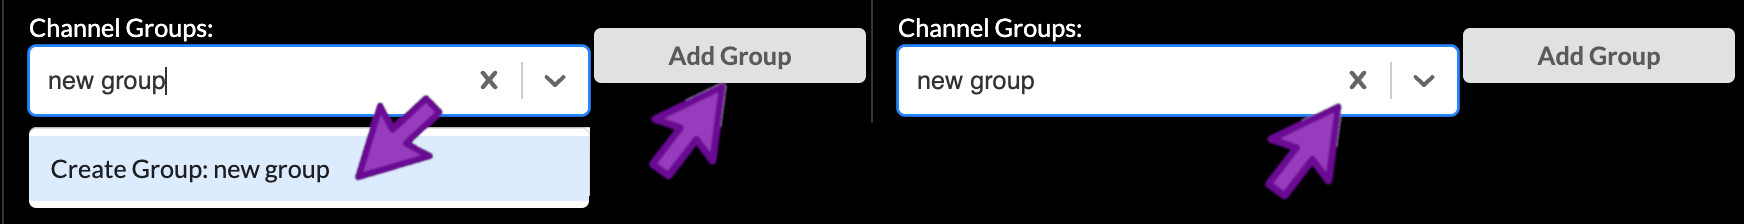
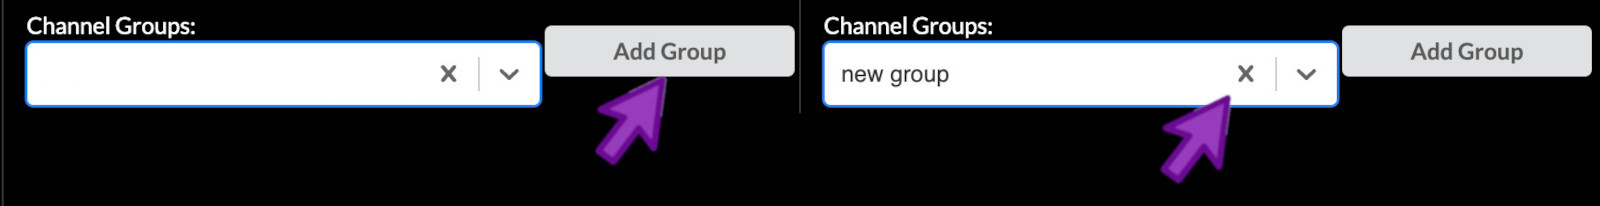
Refine middle of episode 03

diff --git a/_episodes/03-curated.md b/_episodes/03-curated.md
@@ -19,7 +19,9 @@ keypoints:
 ## The authoring interface has three main modes
 
 Minerva Author has three main modes for editing a story. You can switch between these modes by
-clicking the gray buttons just below the Save/Publish/Preview buttons.
+clicking the gray buttons just below the Save/Publish/Preview buttons. We will follow a particular
+sequence through the different modes during this tutorial, but on your own you are free to switch
+back and forth at any time.
 
 1. **Sample Info** lets you adjust settings and enter information that relate to your image as a
    whole and manage the initial image view shown when viewers first open your story.
@@ -110,42 +112,117 @@ pixel size for your image (also called nominal image resolution) and enter it he
 always be specified in microns. The value in this field will be used to give your story a scale bar,
 which is a crucial component of image interpretability.
 
-## Edit Groups
+## Editing channel groups and channel settings
 
-Curated stories include fine-tuned rendering settings, which can be created through the "Edit Groups" tab. This tab is open once an image is loaded into Minerva Author.
+Next we will spend some time learning how to edit channel groups and channel settings. Click the
+"Edit Groups" button to switch to that mode.
 
-### Select and rename a channel group
+As we have seen, the way the image channels are grouped by the Automated story creation process does
+not necessarily highlight useful aspects of tissue biology that you might wish to show to your story
+viewers. The first thing we will do to address that is decide on more useful groups and rearrange
+our channels accordingly.
 
-You can select to edit a given channel group from the dropdown menu under "Channel Groups:". Each channel group must have a unique name. To change the name of a channel group, you can click the "Rename" button. Then, you can enter the new channel group's name into the provided text field.
+## Select and rename a channel group
+
+You can select a channel group to work with from the dropdown menu under "Channel Groups". To change
+the name of a channel group, click the "Rename" button, type the new name into the popup, then click
+OK. Each channel group must have a unique name within a story.
 
 ![Renaming Channel Group](../fig/screenshot-rename-group.jpg){:style="max-width: 800px;"}
 
-### Add or remove a channel group
+## Addding and removing a channel group
 
-A channel group can be added either by clicking "Add Group", or by typing a new name directly into the "Channel Groups" dropdown menu. The currently active channel group can be removed by clicking the "X" within the right side of the "Channel Groups" dropdown menu.
+A new channel group can be added by clicking "Add Group", typing the desired name in to the popup,
+and clicking "OK". The currently active channel group can be removed by clicking the "X" just to the
+right of its name.
 
 ![Add or remove a Channel Group](../fig/screenshot-add-remove-group.jpg){:style="max-width: 800px;"}
 
-### Add or remove a channel
+Let's make our first group show the overall tissue architecture of the tonsil tissue, along with a
+general-purpose immune cell marker. It looks like Group 1 is already pretty close, containing DNA,
+Ki-67, and Keratin, so we will rename Group 1 for this purpose. Then we will create a new group to
+highlight different immune cell types, and lastly delete Group 2.
 
-You can add a channel to the active channel group by opening the channel dropdown menu and selecting a channel from among the list. Or, you can search for a channel to add by typing into the list of options. Individual channels can be cleared by clicking the "X" to the right of a channel name in the list of options. entire channel group can be cleared by clicking the rightmost "X".
+> ## Rename, add and remove channel groups
+> 1. Rename the channel group "Group 1" to "Structural components".
+> 2. Add a new channel group named "Immune cells".
+> 3. Delete channel group "Group 2".
+{: .challenge}
+
+
+## Adding and removing channels from groups
+
+You can add a channel to the active channel group by clicking the down arrow in the channel dropdown
+menu (or the empty white space to the left of the arrow) to open the list of channels, followed by
+clicking a channel. You can also type to search for a channel by name while the channel list is
+open. Remove a channel from the group by clicking the small "X" next to its name. If you ever want
+to remove all channels from a group, click the large "X" near the right side of the channel dropdown
+menu. Note that a channel may belong to more than one group at the same time -- for example, many
+stories of CyCIF images include the first DNA channel in every group as a reference to show where
+all cells are located regardless of marker expression.
 
 ![Add or remove a Channel](../fig/screenshot-add-remove-channel.jpg){:style="max-width: 800px;"}
 
-### Describe a channel
+Now we will refine our two channel groups to contain the correct channels.
 
-You can provide a brief (no more than 30-character) description for a given channel by clicking the encircled "i" to the right of any given channel. Then, you can enter the channel's description into the provided text field. This description will be shown in the Story adjacent to the name of the described channel.
+> ## Add and remove channels from groups
+> 1. Add the following channels to the "Structural components" group:
+>   * α-SMA
+>   * CD45
+> 2. Remove the following channels from the "Structural components" group:
+>   * CD3D
+>   * CD4
+> 2. Add the following channels to the "Immune cells" group:
+>   * CD20
+>   * CD8A
+>   * CD4
+>   * CD3D
+{: .challenge}
 
-![Showing a hidden channel](../fig/screenshot-describe-channel.jpg){:style="max-width: 800px;"}
+
+## Adjusting per-channel settings
+
+Now we will move our focus down from the channel dropdown menu to the channel settings list where we
+can adjust name, color, brightness and contrast, and more.
+
+## Creating channel descriptions
+
+Short channel names are an efficient shorthand for those who already know the significance of the
+referenced proteins or other biomarkers, but they are much less helpful to outsiders from a more
+general audience. It is strongly suggested that you write a brief description (up to 30 characters)
+of each channel that explains its intended interpretation in the context of the tissue sample and
+the overall experiment. You can add these descriptions to the channels in your story by clicking the
+encircled "i" button to the right of a channel's entry in the channel settings list. Then enter the
+channel's description into the popup and click OK.
+
+![Edit channel description](../fig/screenshot-describe-channel.jpg){:style="max-width: 800px;"}
+
+> ## Enter channel descriptions
+> Set the channel description for all nine active channels as follows. This text is provided at the
+> end of content-03.txt if you wish to copy and paste it. Note that you will need to switch between
+> the channel groups to get to all the channels.
+> * DNA1: Nuclei
+> * Keratin: Crypt epithelium
+> * Ki-67: Proliferating immune cells
+> * aSMA: Blood vessels
+> * CD45: Immune cells (general)
+> * CD20: B-cells
+> * CD8A: Cytotoxic T-cells
+> * CD4: T-helper cells
+> * CD3D: T-cells (all)
+{: .challenge}
 
 
-### Toggle a channel
+## Toggle a channel's visibility
 
-You can show or hide a given channel by clicking the "eye" icon to the right of any given channel. This effect is not reflected in the Story.
+You can show or hide a channel by clicking the "eye" icon to the right of its entry in the channel
+settings list. This effect is not reflected in the published story, but it can be useful to
+temporarily isolate channels when adjusting color or brightness and contrast settings.
 
 ![Showing a hidden channel](../fig/screenshot-show-channel.jpg){:style="max-width: 800px;"}
 
-### Brightness and contrast
+
+## Brightness and contrast
 
 You can move the endpoints of the yellow range slider to adjust the brightness and contrast of the corresponding channel in the active channel group. Moving the right handle of slider from left to right will darken the corresponding channel. Moving the right handle of the slider from right to left will brighten the corresponding channel. Any adjustments will to apply to channel within the scope of the active channel group and within any new channel groups created thereafter.
 

diff --git a/_episodes/02-automated.md b/_episodes/02-automated.md
@@ -159,7 +159,7 @@ continue. In the future, you can use the Cancel button if you ever click Auto Gr
 
 ![Auto Group results](../fig/screenshot-auto-group-result.jpg){:style="max-width: 800px;" }
 
-> ## Auto Group results
+> ## Auto Group results (open response)
 >
 > What do you notice has changed on the screen after running Auto Group?
 > > ## Solution
@@ -201,7 +201,7 @@ in a new tab. Explore the story in preview mode and close that browser tab when 
 
 ![Preview button](../fig/screenshot-preview.jpg){:style="max-width: 800px;" }
 
-> ## Pair discussion: Critique the Automated story
+> ## Critique the Automated story (Pair discussion)
 >
 > Before closing the preview mode tab, turn to your neighbor and discuss together what you do and
 > don't like about the Automated story we just created. Take a moment to notice what is drawing your
